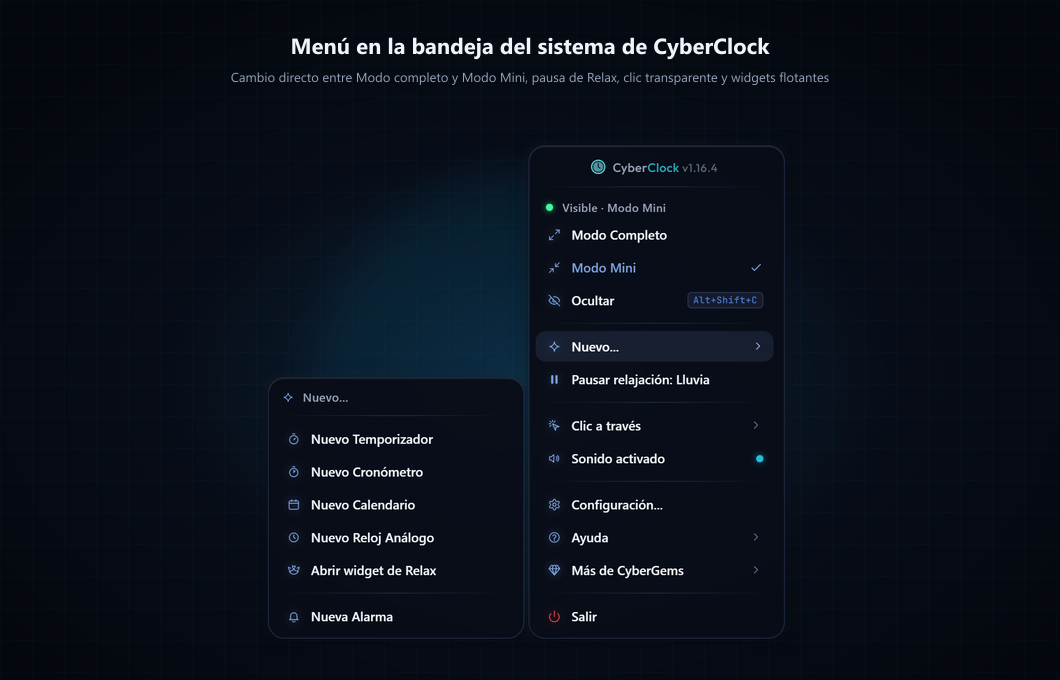
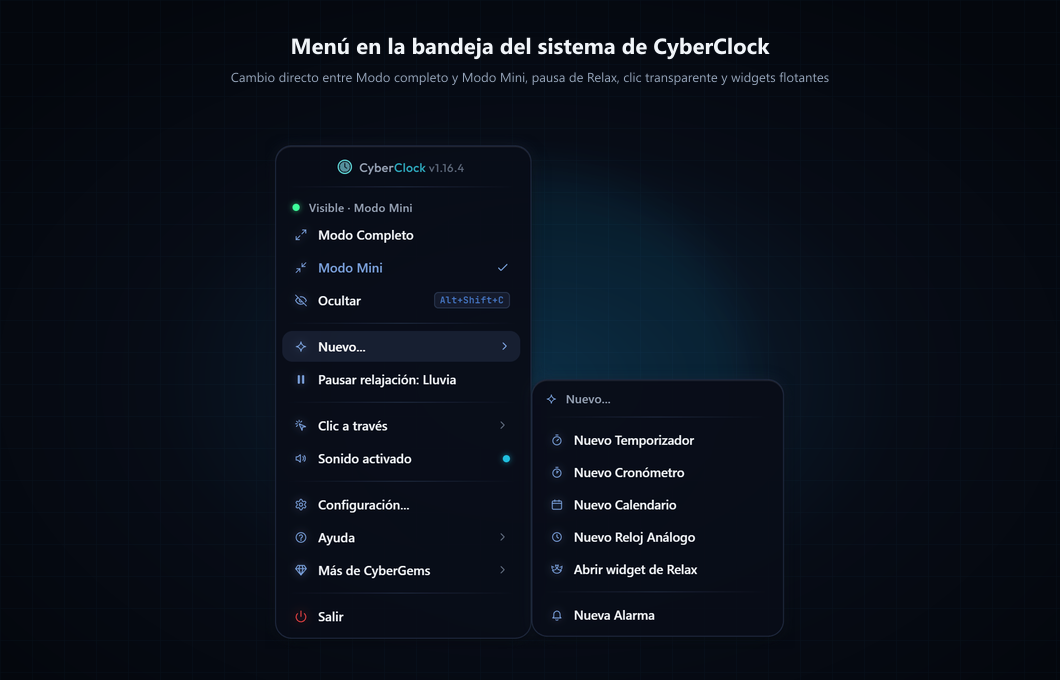
Update CyberTray and CyberClock tray menu shots with right-side submenus

diff --git a/docs/screenshots-log.md b/docs/screenshots-log.md
@@ -66,7 +66,7 @@ Control interno de capturas bilingües (EN / ES) según [docs/screenshots.md](./
 | CyberFeeds | Lector enfocado | ES | 1.32.4 | dark | 100% (1520x900) | 2026-11-27 | `public/screenshots/cyberfeeds/reader-es.webp` | 40.9 KB | Vista de lector enfocado en un solo panel de CyberFeeds con barra de lectura limpia, tipografía clara y botón para obtener el artículo completo | Modo de lectura enfocada en un solo panel que oculta la barra lateral y la lista de artículos. | publicada |
 | CyberLauncher | HUD Almacenamiento | EN | 1.17.0 | dark | 100% (1480x880) | 2026-11-27 | `public/screenshots/cyberlauncher/storage-en.webp` | 100.2 KB | CyberLauncher Storage HUD drawer displaying disk drives C through H with cyan and amber usage bars, free space and total capacity | Storage HUD showing every drive's usage percentage, high-usage alerts, free space, and total capacity in one side drawer. | publicada |
 | CyberLauncher | HUD Almacenamiento | ES | 1.17.0 | dark | 100% (1480x880) | 2026-11-27 | `public/screenshots/cyberlauncher/storage-es.webp` | 102.1 KB | Panel HUD de Almacenamiento en CyberLauncher mostrando las unidades C a H con barras de uso en cian y ámbar, espacio libre y capacidad total | HUD de Almacenamiento con porcentaje de uso por unidad, alertas de espacio alto, capacidad libre y total en un solo panel lateral. | publicada |
-| CyberTray | Menú del tray | EN | 1.9.3 | dark | 100% (1060x680) | 2026-11-27 | `public/screenshots/cybertray/tray-menu-en.webp` | 145.6 KB | CyberTray system tray menu with quick shelf toggle, recent shortcuts flyout, settings, and help options | Custom themed system tray menu with visibility status, shortcut hotkey badge, and quick recent-shortcuts flyout. | publicada |
-| CyberTray | Menú del tray | ES | 1.9.3 | dark | 100% (1060x680) | 2026-11-27 | `public/screenshots/cybertray/tray-menu-es.webp` | 148.1 KB | Menú en la bandeja del sistema de CyberTray con interruptor rápido del estante, submenú de accesos recientes, ajustes y ayuda | Menú de bandeja personalizado con indicador de visibilidad, insignia de atajo y panel flotante de accesos recientes. | publicada |
-| CyberClock | Menú del tray | EN | 1.16.4 | azure | 100% (1060x680) | 2026-11-27 | `public/screenshots/cyberclock/tray-menu-en.webp` | 86.1 KB | CyberClock system tray menu with Full and Mini Mode toggles, New widgets flyout, Relax playback pause, click-through, and audio toggle | Custom themed system tray menu for switching between Full and Mini Mode, launching widgets, controlling Relax audio, and toggling click-through. | publicada |
-| CyberClock | Menú del tray | ES | 1.16.4 | azure | 100% (1060x680) | 2026-11-27 | `public/screenshots/cyberclock/tray-menu-es.webp` | 94.3 KB | Menú en la bandeja del sistema de CyberClock con selector de Modo completo y Modo Mini, submenú Nuevo, pausa de Relax, clic transparente y sonido | Menú de bandeja personalizado para alternar entre Modo completo y Modo Mini, abrir widgets flotantes, pausar Relax y controlar el clic transparente. | publicada |
+| CyberTray | Menú del tray | EN | 1.9.3 | dark | 100% (1060x680) | 2026-11-27 | `public/screenshots/cybertray/tray-menu-en.webp` | 144.1 KB | CyberTray system tray menu with quick shelf toggle, recent shortcuts flyout, settings, and help options | Custom themed system tray menu with visibility status, shortcut hotkey badge, and quick recent-shortcuts flyout. | publicada |
+| CyberTray | Menú del tray | ES | 1.9.3 | dark | 100% (1060x680) | 2026-11-27 | `public/screenshots/cybertray/tray-menu-es.webp` | 146.7 KB | Menú en la bandeja del sistema de CyberTray con interruptor rápido del estante, submenú de accesos recientes, ajustes y ayuda | Menú de bandeja personalizado con indicador de visibilidad, insignia de atajo y panel flotante de accesos recientes. | publicada |
+| CyberClock | Menú del tray | EN | 1.16.4 | azure | 100% (1060x680) | 2026-11-27 | `public/screenshots/cyberclock/tray-menu-en.webp` | 86.7 KB | CyberClock system tray menu with Full and Mini Mode toggles, New widgets flyout, Relax playback pause, click-through, and audio toggle | Custom themed system tray menu for switching between Full and Mini Mode, launching widgets, controlling Relax audio, and toggling click-through. | publicada |
+| CyberClock | Menú del tray | ES | 1.16.4 | azure | 100% (1060x680) | 2026-11-27 | `public/screenshots/cyberclock/tray-menu-es.webp` | 95.2 KB | Menú en la bandeja del sistema de CyberClock con selector de Modo completo y Modo Mini, submenú Nuevo, pausa de Relax, clic transparente y sonido | Menú de bandeja personalizado para alternar entre Modo completo y Modo Mini, abrir widgets flotantes, pausar Relax y controlar el clic transparente. | publicada |
